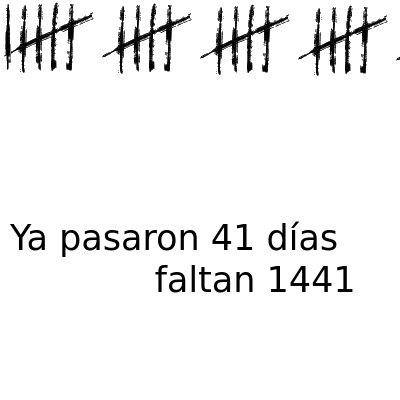
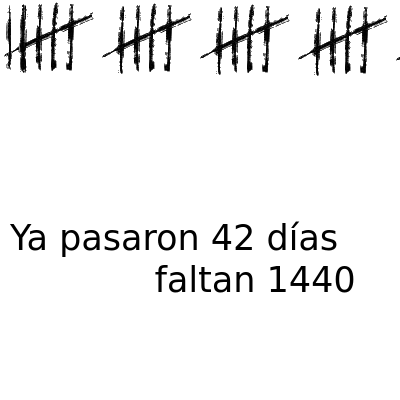
deploy: 28882f26f23b9f53dac6c4991168e610486d0e44

Changed region(s): [[0.0, 0.0, 0.09, 0.18], [0.84, 0.66, 0.9, 0.75], [0.57, 0.54, 0.63, 0.63]]

diff --git a/index.html b/index.html
@@ -3,19 +3,19 @@
   <head>
     <meta charset='utf-8'>
     <meta http-equiv='X-UA-Compatible' content='IE=edge'>
-    <title>Ya pasaron 41 días y faltan 1441</title>
-    <meta name="description" content="Ya pasaron 41 días y faltan 1441">
-    <meta itemprop="name" content="Ya pasaron 41 días y faltan 1441">
-    <meta itemprop="description" content="Ya pasaron 41 días y faltan 1441">
+    <title>Ya pasaron 42 días y faltan 1440</title>
+    <meta name="description" content="Ya pasaron 42 días y faltan 1440">
+    <meta itemprop="name" content="Ya pasaron 42 días y faltan 1440">
+    <meta itemprop="description" content="Ya pasaron 42 días y faltan 1440">
     <meta name="twitter:card" content="summary">
-    <meta name="twitter:title" content="Ya pasaron 41 días y faltan 1441">
-    <meta name="twitter:description" content="Ya pasaron 41 días y faltan 1441">
+    <meta name="twitter:title" content="Ya pasaron 42 días y faltan 1440">
+    <meta name="twitter:description" content="Ya pasaron 42 días y faltan 1440">
     <meta name="twitter:creator" content="@FloriusWasTaken">
     <meta name="twitter:image" content="https://pasaron.meme.ar/capture.png">
-    <meta property="og:title" content="Ya pasaron 41 días y faltan 1441">
-    <meta property="og:description" content="Ya pasaron 41 días y faltan 1441">
+    <meta property="og:title" content="Ya pasaron 42 días y faltan 1440">
+    <meta property="og:description" content="Ya pasaron 42 días y faltan 1440">
     <meta property="og:url" content="https://pasaron.meme.ar">
-    <meta property="og:site_name" content="Ya pasaron 41 días y faltan 1441">
+    <meta property="og:site_name" content="Ya pasaron 42 días y faltan 1440">
     <meta property="og:type" content="website">
     <meta property="og:image" content="https://pasaron.meme.ar/capture.png">
     <meta name="theme-color" content="#dc143c">
@@ -69,18 +69,18 @@
         padding: 0;
       }
     </style>
-    <title>Ya pasaron 41 días y faltan 1441</title>
+    <title>Ya pasaron 42 días y faltan 1440</title>
   </head>
   <body>
     <div id="main">
       <img src="img/5.png"/><img src="img/5.png"/><img src="img/5.png"/><img src="img/5.png"/><img src="img/5.png"/><img src="img/5.png"/><img src="img/5.png"/><img src="img/5.png"/>
       
-        <img src="img/1.png"/>
+        <img src="img/2.png"/>
       
     </div>
     <footer id="footer">
       <marquee id="marquee" class="is-vertical-align">
-        Ya pasaron 41 días y faltan 1441
+        Ya pasaron 42 días y faltan 1440
       </marquee>
       <ul>
         <li>
